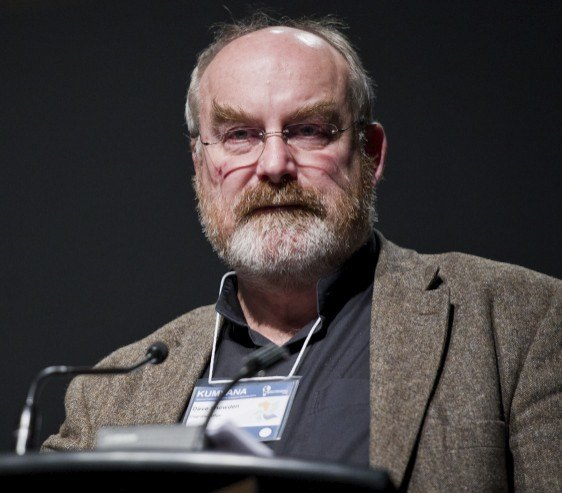
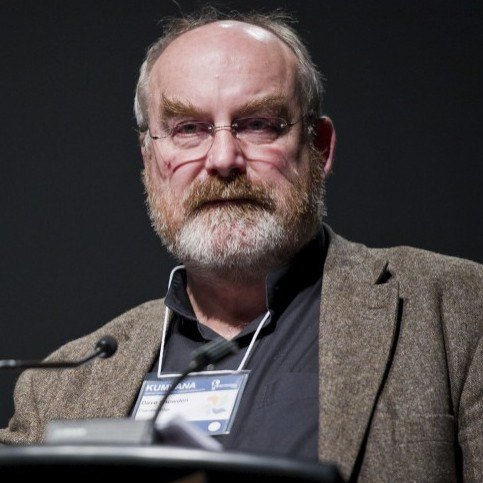
Richard Rutter

Changed region(s): [[0.0, 0.0, 1.0, 1.0]]

diff --git a/_posts/2016-11-04-conference-2016.md b/_posts/2016-11-04-conference-2016.md
@@ -184,8 +184,8 @@ body {font-weight: 400; line-height: 1.75}
 				<a href="#more" id="speaker7">
 					<img src="/assets/conference-2016/e.gif" alt="" class="speakerphoto" style="background-color: #b83246">
 				</a>
-				<a href="#more" id="speaker8">
-					<img src="/assets/conference-2016/r.gif" alt="" class="speakerphoto" style="background-color: #b83246">
+				<a href="#richard-rutter" id="speaker8">
+					<img src="/assets/conference-2016/richard-rutter.jpg" alt="" class="speakerphoto" style="background-color: #b83246">
 				</a>
 			</div>
 			<div id="speaker6">
@@ -249,6 +249,17 @@ Alice is also the founder of lady bung empowerment franchise, [tampon.club](http
 [Dave](https://en.wikipedia.org/wiki/Dave_Snowden) divides his time between two roles: founder Chief Scientific Officer of [Cognitive Edge](http://cognitive-edge.com/) and the founder and Director of the [Centre for Applied Complexity](http://cynefin.bangor.ac.uk/) at Bangor  University in Wales.
 
 His work is international in nature and covers government and industry looking at complex issues relating to strategy, organisational decision making and decision making. He has pioneered a science based approach to organisations drawing on anthropology, neuroscience and complex adaptive systems theory. He is a popular and passionate keynote speaker on a range of subjects, and is well known for his pragmatic cynicism and iconoclastic style. 
+
+<p style="text-align: center;margin: 2rem 0"><a href="https://www.eventbrite.co.uk/e/ux-brighton-2016-ux-is-dead-long-live-ux-tickets-15866892302#tickets" class="ticket-button" title="UX is dead, long live UX! tickets on Eventbrite" style="padding: 1rem; color: #fff">Buy your ticket now</a></p>
+
+### Richard Rutter
+<img src="/assets/conference-2016/richard-rutter.jpg" alt="Richard Rutter" class="speaker-photo">
+
+[Richard](http://clagnut.com) is a cofounder of digital design studio [Clearleft](http://clearleft.com). 
+
+He is a design consultant with a vast array of experience working for big and small clients including local councils, international fashion brands, global charities, and funky start-ups, all with a prime directive to make their customers’ lives that bit better. 
+
+Within Clearleft, Richard’s role includes shaping the culture of the agency and ensuring it - and its people - are not just adhering to best practice, but redefining it.
 
 <p style="text-align: center;margin: 2rem 0"><a href="https://www.eventbrite.co.uk/e/ux-brighton-2016-ux-is-dead-long-live-ux-tickets-15866892302#tickets" class="ticket-button" title="UX is dead, long live UX! tickets on Eventbrite" style="padding: 1rem; color: #fff">Buy your ticket now</a></p>
 
